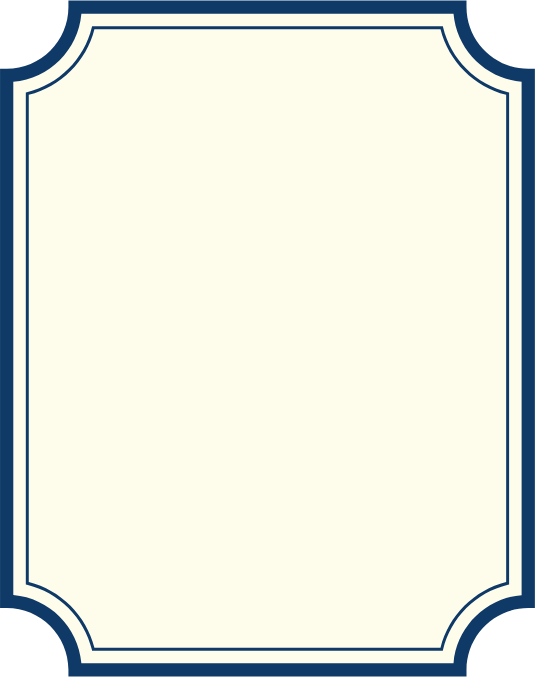
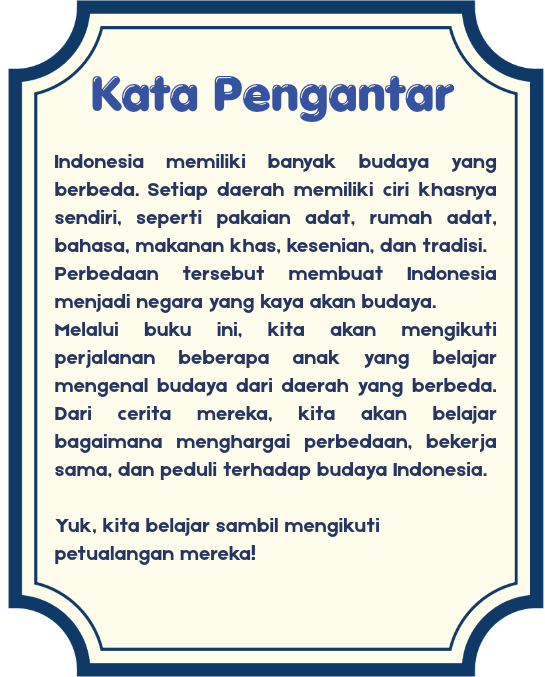
feat(page-02): replace text overlay with updated template-catatan image

diff --git a/src/style.css b/src/style.css
@@ -492,72 +492,6 @@ body {
   filter: drop-shadow(0 10px 24px rgba(18, 48, 86, 0.22));
 }
 
-.p2-note-content {
-  position: absolute;
-  top: 0;
-  left: 0;
-  width: 100%;
-  height: 100%;
-  box-sizing: border-box;
-  padding: 9.2% 8.6% 10% 8.6%;
-  display: flex;
-  flex-direction: column;
-  align-items: center;
-  pointer-events: auto;
-}
-
-.p2-note-title-img {
-  width: clamp(190px, 45cqi, 320px);
-  height: auto;
-  display: block;
-  margin-bottom: clamp(10px, 2.6cqi, 22px);
-  filter: drop-shadow(0 2px 4px rgba(35, 73, 126, 0.22));
-  pointer-events: none;
-}
-
-.p2-note-title {
-  font-family: 'VAG Rounded Next', 'VAG Rounded', var(--font-title);
-  font-weight: 800;
-  font-size: clamp(1.7rem, 6.75cqi, 3.30rem);
-  color: #3653a1;
-  text-align: center;
-  text-transform: none;
-  /* Judul "Kata Pengantar" (Title Case) persis di Canva */
-  margin-bottom: clamp(14px, 3cqi, 26px);
-  letter-spacing: 0.015em;
-  text-shadow:
-    0 1.5px 0 #ffffff,
-    0 -1.5px 0 #ffffff,
-    1.5px 0 0 #ffffff,
-    -1.5px 0 0 #ffffff,
-    0 2px 6px rgba(35, 73, 126, 0.25);
-  line-height: 1.15;
-  user-select: text;
-  -webkit-user-select: text;
-}
-
-.p2-note-body {
-  font-family: 'Etna', var(--font-body);
-  font-weight: 700;
-  font-size: clamp(0.80rem, 2.45cqi, 1.40rem);
-  line-height: 1.4;
-  color: #263660;
-  letter-spacing: 0.027em;
-  /* Canva letter-spacing: 27 (27/1000 em) */
-  text-align: justify;
-  text-justify: inter-word;
-  user-select: text;
-  -webkit-user-select: text;
-}
-
-.p2-note-body p+p {
-  margin-top: clamp(14px, 3.2cqi, 26px);
-}
-
-.p2-note-closing {
-  margin-top: clamp(14px, 3.2cqi, 26px);
-}
-
 .layer-p2-foliage {
   left: 0;
   bottom: 0;

diff --git a/src/components/pageRenderer.js b/src/components/pageRenderer.js
@@ -183,16 +183,9 @@ function renderPage02(data) {
       <!-- Layer 9: Batu & Rumput Berbunga Kanan Bawah -->
       <img src="${assets.rocks}" alt="" class="layer layer-p2-rocks" style="${getCanvaStyle('page02', 'rocks')}" draggable="false" />
 
-      <!-- Layer 10: Template Catatan & Teks Isi -->
+      <!-- Layer 10: Template Catatan (Termasuk Judul & Teks) -->
       <div class="layer layer-p2-note-wrapper" style="${getCanvaStyle('page02', 'noteFrame')}">
-        <img src="${assets.noteFrame}" alt="" class="p2-note-frame-img" draggable="false" />
-        <div class="p2-note-content">
-          <h1 class="p2-note-title">${title}</h1>
-          <div class="p2-note-body">
-            ${bodyParagraphs.slice(0, -1).map((p) => `<p>${p}</p>`).join('')}
-            <p class="p2-note-closing">${bodyParagraphs[bodyParagraphs.length - 1]}</p>
-          </div>
-        </div>
+        <img src="${assets.noteFrame}" alt="${title}" class="p2-note-frame-img" draggable="false" />
       </div>
 
       <!-- Layer 11: Dedaunan & Bunga Depan Bawah -->
